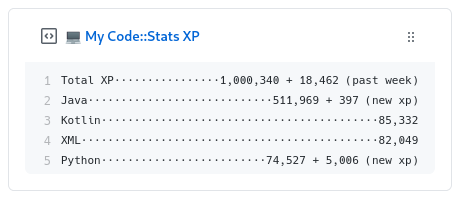
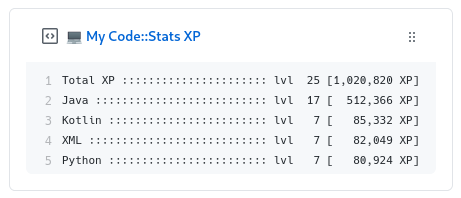
Update README for level stats type ✏

diff --git a/codestats_box.py b/codestats_box.py
@@ -31,7 +31,7 @@ REQUIRED_ENVS = [
 
 STATS_TYPE_RECENT_XP = "recent-xp"
 STATS_TYPE_XP = "xp"
-STATS_TYPE_LEVEL = "level"
+STATS_TYPE_LEVEL = "level-xp"
 ALLOWED_STATS_TYPES = [
     STATS_TYPE_RECENT_XP,
     STATS_TYPE_XP,

diff --git a/README.md b/README.md
@@ -30,18 +30,26 @@
 - **CODE_STATS_USERNAME:** Your [Code::Stats](https://codestats.net) username. (This can also be put directly in the yml)
 
 - **STATS_TYPE:** (Optional) Type of stats, supported values:
-  - `recent-xp`: (Default) Shows the past week in total as well as language wise recent XP:
+
+  - `level-xp`: (Default) Show total and language XPs with level:
 
       ```none
-      Total XP··················998,967 + 20,466 (past week)
-      Java····························511,969 + 397 (new xp)
+      Total XP :::::::::::::::::::::: lvl  25 [1,020,821 XP]
+      Java :::::::::::::::::::::::::: lvl  17 [  512,366 XP]
+      ```
+
+  - `recent-xp`: Shows the past week in total as well as language wise recent XP:
+
+      ```none
+      Total XP :::::::::::::::: 998,967 + 21,854 (past week)
+      Java :::::::::::::::::::::::::: 511,969 + 397 (new xp)
       ```
 
   - `xp`: Skips the recent stats (the parts after the ` +`) and shows just the aggregate total and language XPs:
 
       ```none
-      Total XP·····································1,019,439
-      Java···········································512,366
+      Total XP ::::::::::::::::::::::::::::::::::: 1,020,821
+      Java ::::::::::::::::::::::::::::::::::::::::: 512,366
       ```
 
   (This can also be put directly in `.github/workflows/codestats.yml`)
